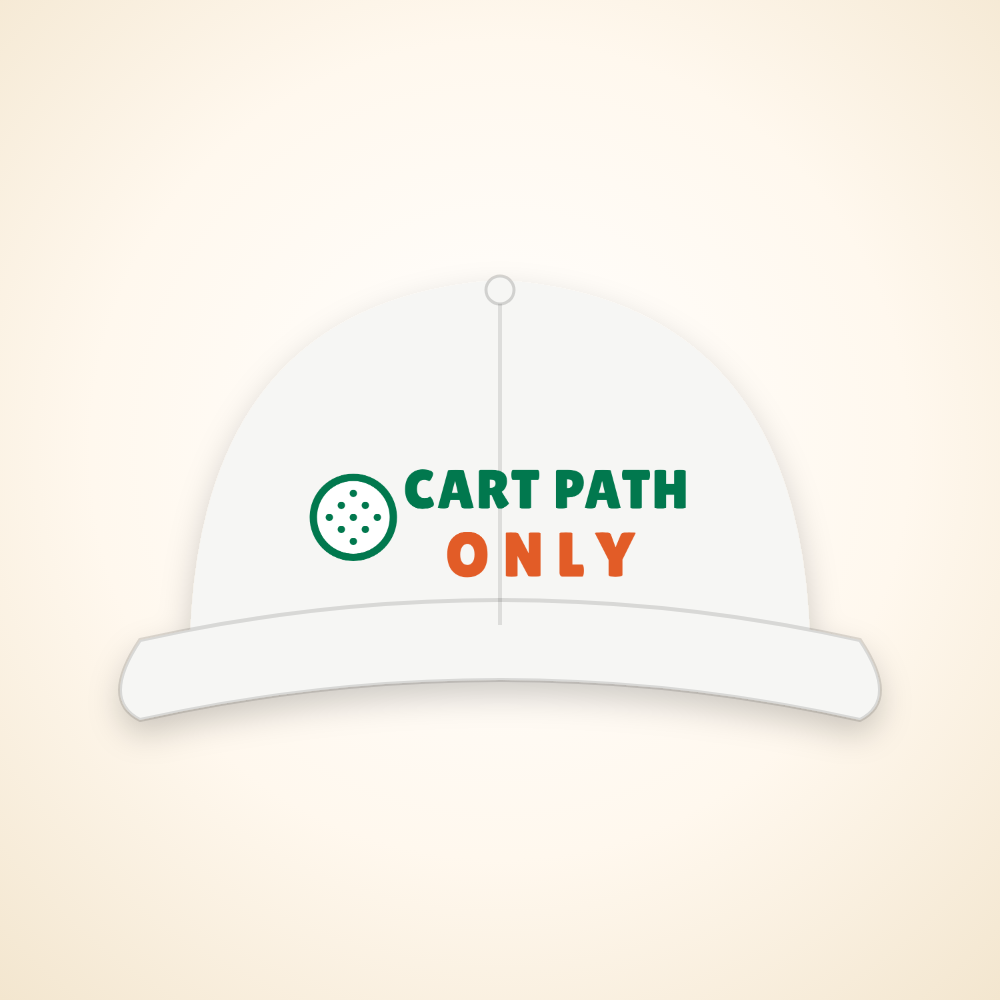
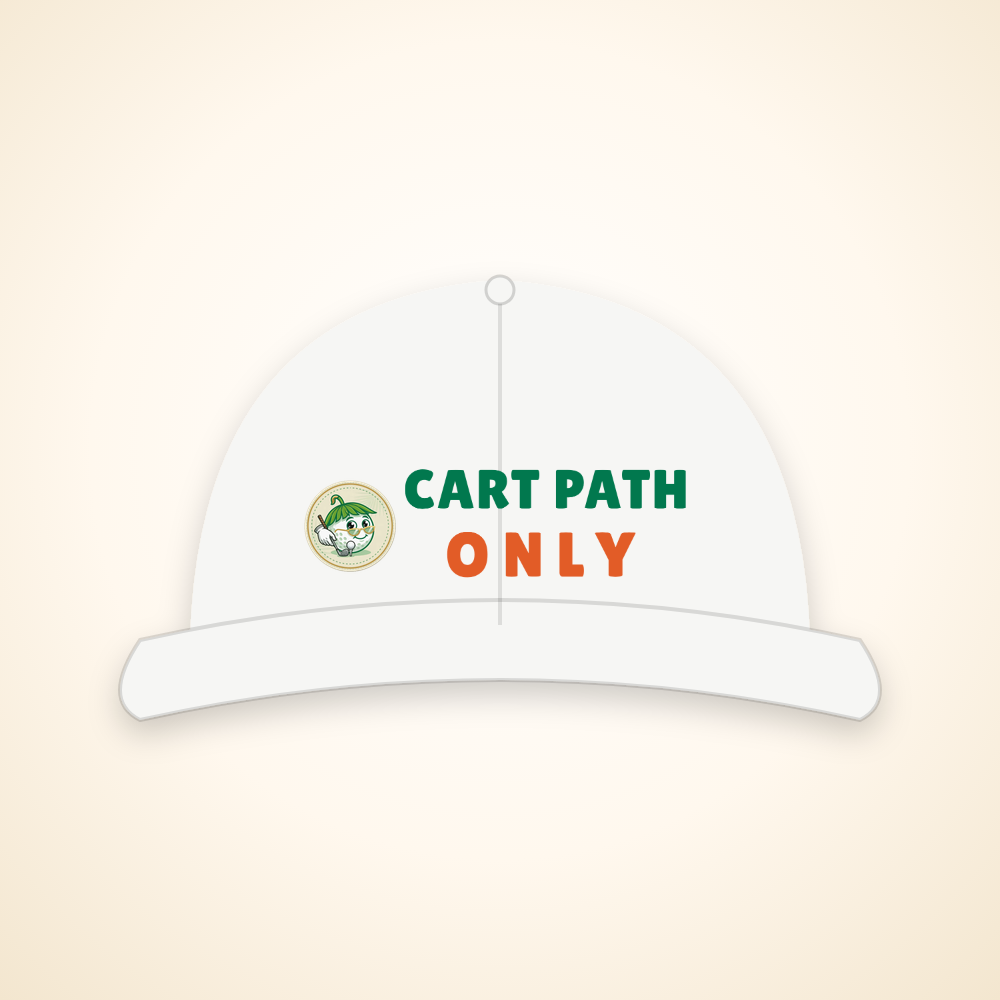
Merch v5: tote keeps only the cut-out golf cart (no branding); hat front gets the mascot badge, back is the centered wordmark

Changed region(s): [[0.31, 0.465, 0.403, 0.589]]

diff --git a/src/lib/shop/catalog.ts b/src/lib/shop/catalog.ts
@@ -140,7 +140,7 @@ export const PRODUCTS: Product[] = [
     name: "Cart Path Only",
     tagline: "Embroidered dad hat",
     description:
-      "The one rule everybody knows, stitched on a relaxed cotton dad hat with a tiny golf ball, plus our golf-ball mascot and The Villages Everything App wordmark on the back above the strap. Shade for your eyes, a reminder for your cart.",
+      "The one rule everybody knows, stitched on a relaxed cotton dad hat next to our golf-ball mascot badge, plus The Villages Everything App wordmark on the back above the strap. Shade for your eyes, a reminder for your cart.",
     priceCents: 3000,
     image: "/shop/mock/hat-cart-path-only--khaki.png",
     colors: [
@@ -156,12 +156,12 @@ export const PRODUCTS: Product[] = [
     ],
     files: [
       { type: "embroidery_front", path: "/shop/print/hat-cart-path-only.png" },
-      // Back, above the strap: golf-ball mascot badge + homepage wordmark (Fraunces 700; "everything" italic). Multi-color.
+      // Back, above the strap: homepage wordmark only, centered (Fraunces 700; "everything" italic). Front carries the mascot badge.
       { type: "embroidery_back", path: "/shop/print/hat-cart-path-only-back.png" },
     ],
     options: [
-      { id: "thread_colors", value: ["#01784E", "#E25C27", "#FFFFFF"] },
-      { id: "thread_colors_back", value: ["#000000", "#E25C27", "#01784E", "#7BA35A", "#FFCC00", "#FFFFFF"] },
+      { id: "thread_colors", value: ["#01784E", "#E25C27", "#FFFFFF", "#7BA35A", "#FFCC00", "#000000"] },
+      { id: "thread_colors_back", value: ["#000000", "#E25C27"] },
     ],
     taxCode: CLOTHING,
   },
